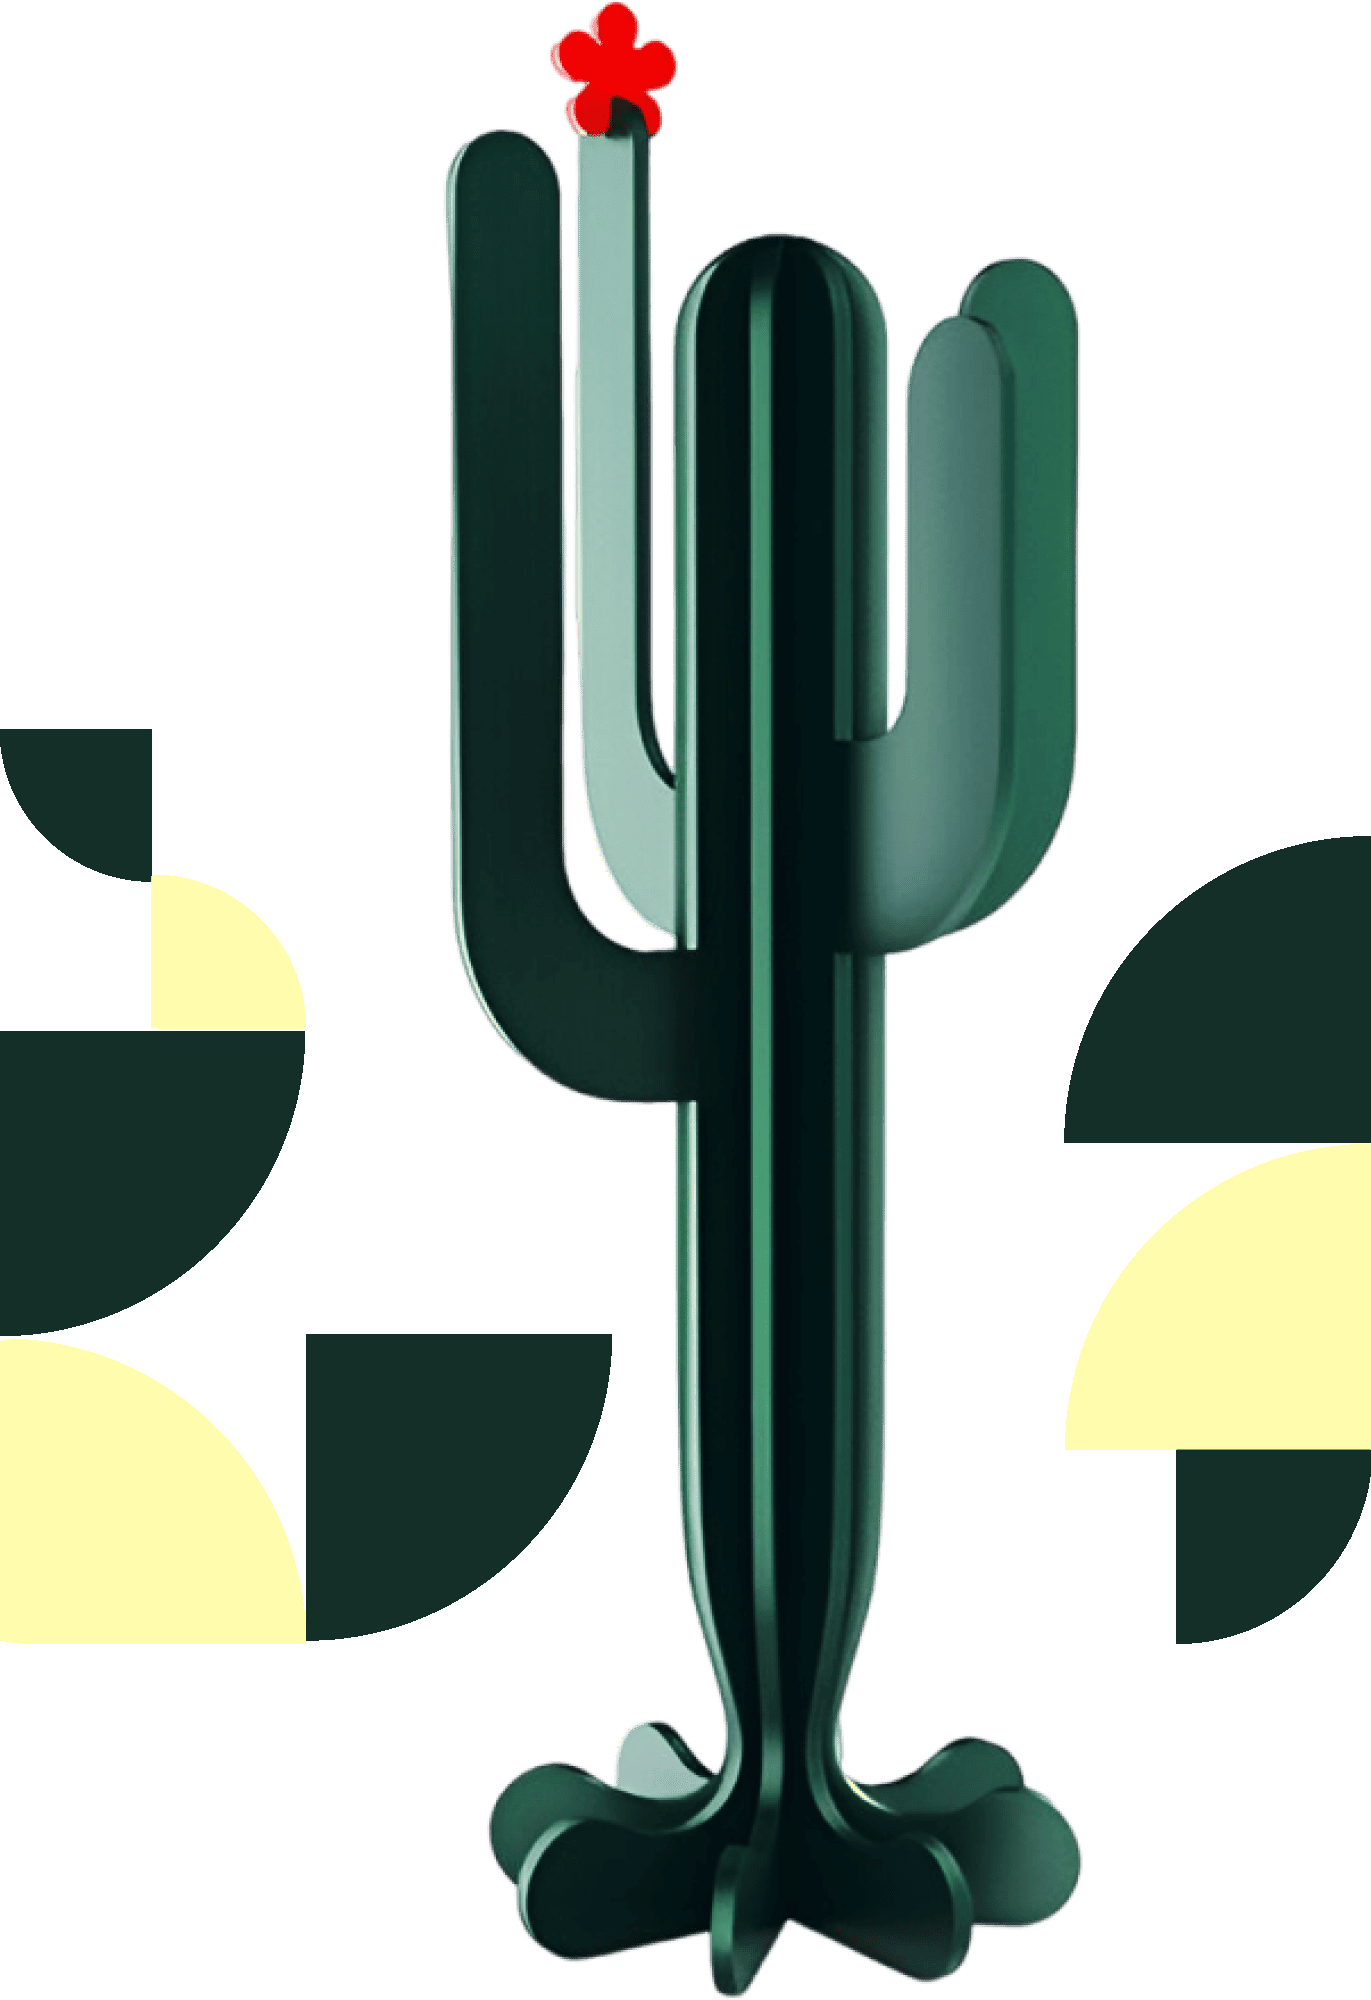
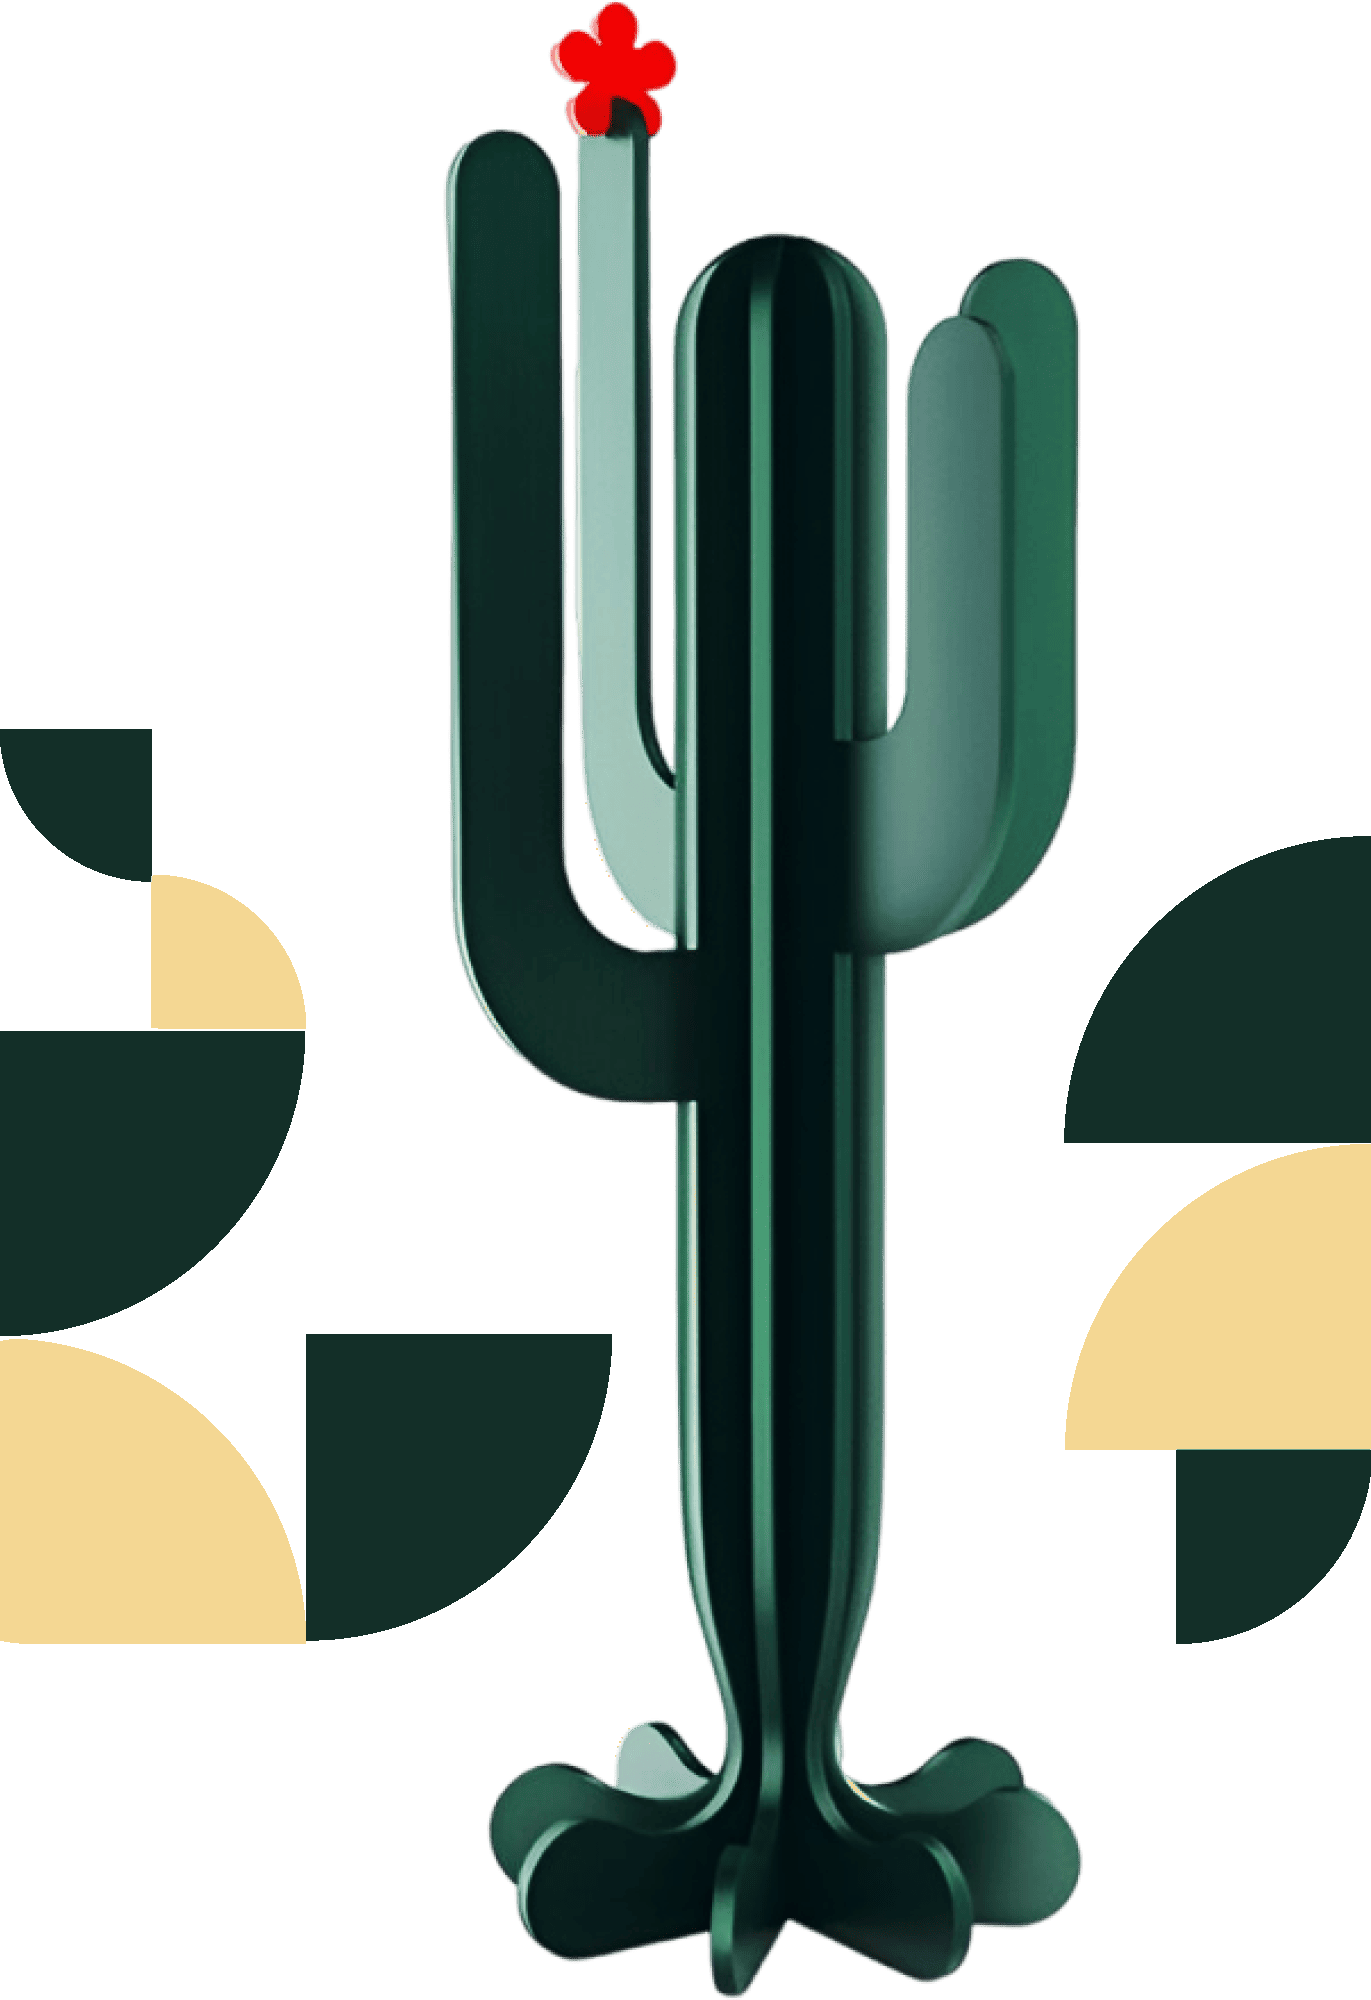
alteracao arquivos

Changed region(s): [[0.7659, 0.558, 1.0, 0.744], [0.0, 0.651, 0.2451, 0.837], [0.0919, 0.434, 0.2451, 0.527]]

diff --git a/index.html b/index.html
@@ -177,7 +177,7 @@
     <!-- Rodapé -->
     <footer>
         <div class="informacoes">
-            <p>&copy; 2025 Deco Design. Todos os direitos reservados.</p>
+            <p>&copy; 2025 Deco Design.</p>
             <div class="social-media">
                 <a href="https://instagram.com" target="_blank"><img src="assets/imagens/bxl-instagram-alt.svg" alt=""></a>
                 <a href="https://facebook.com" target="_blank"><img src="assets/imagens/bxl-facebook-circle.svg" alt=""></a>

diff --git a/assets/css/style.css b/assets/css/style.css
@@ -164,7 +164,7 @@ nav button.cta-button:hover {
 
 .produto-card:hover {
     transform: scale(1.05);
-    background-color: #fffcae;
+    background-color: #f4d793;
 }
 
 .produto-card img {
